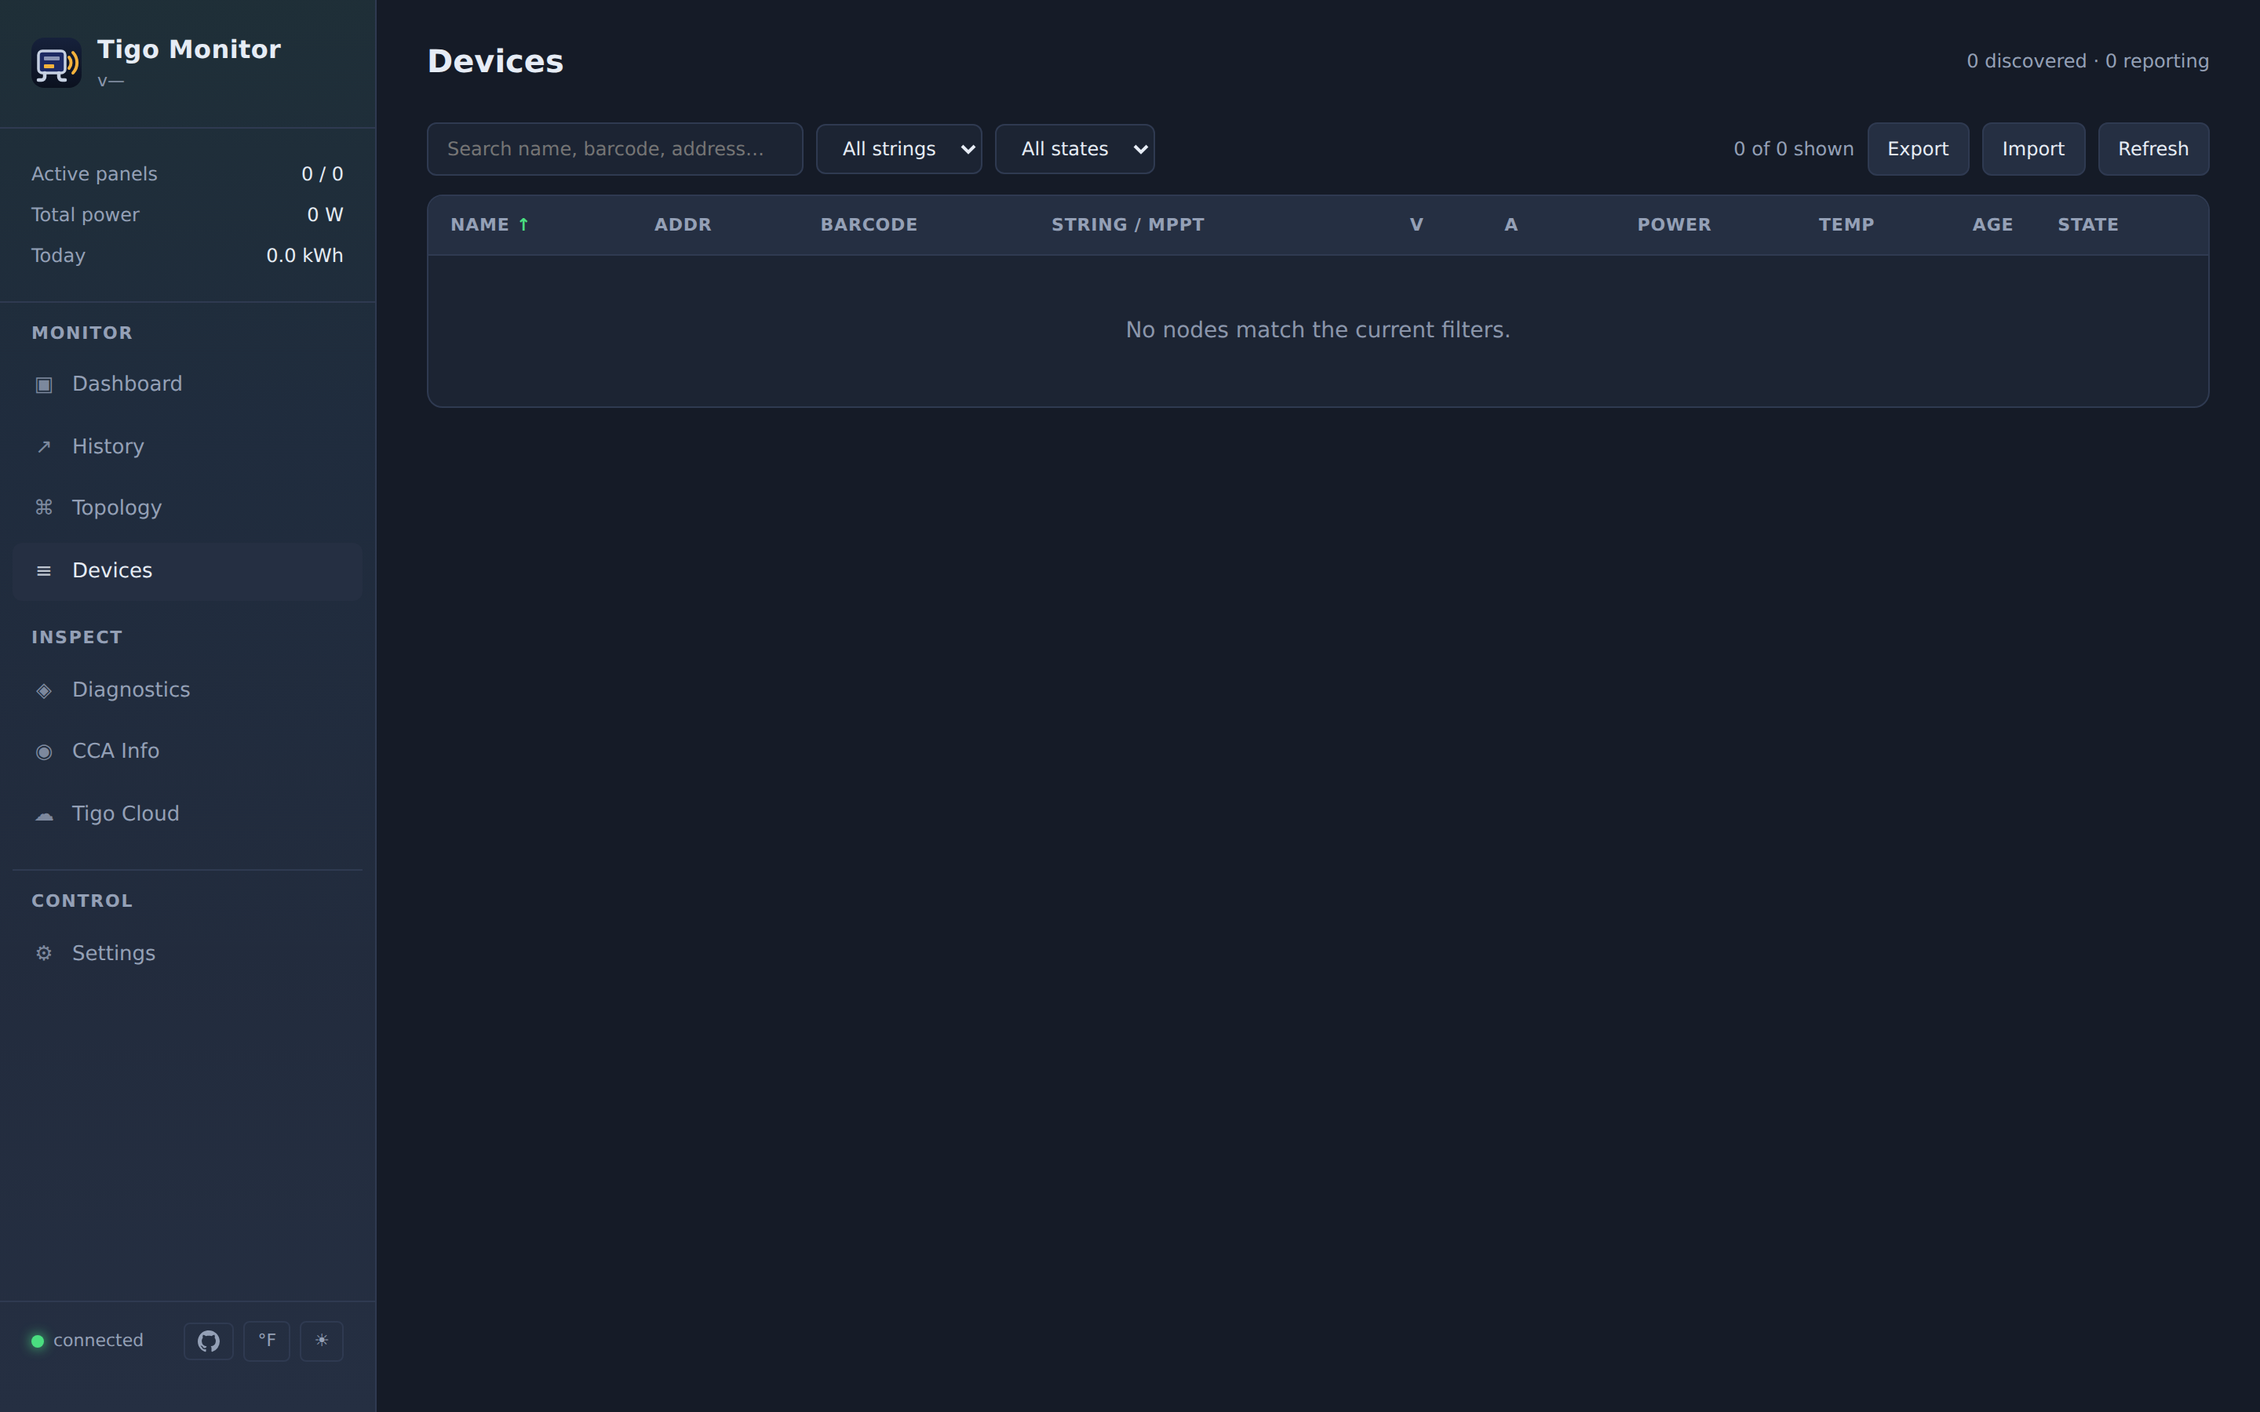
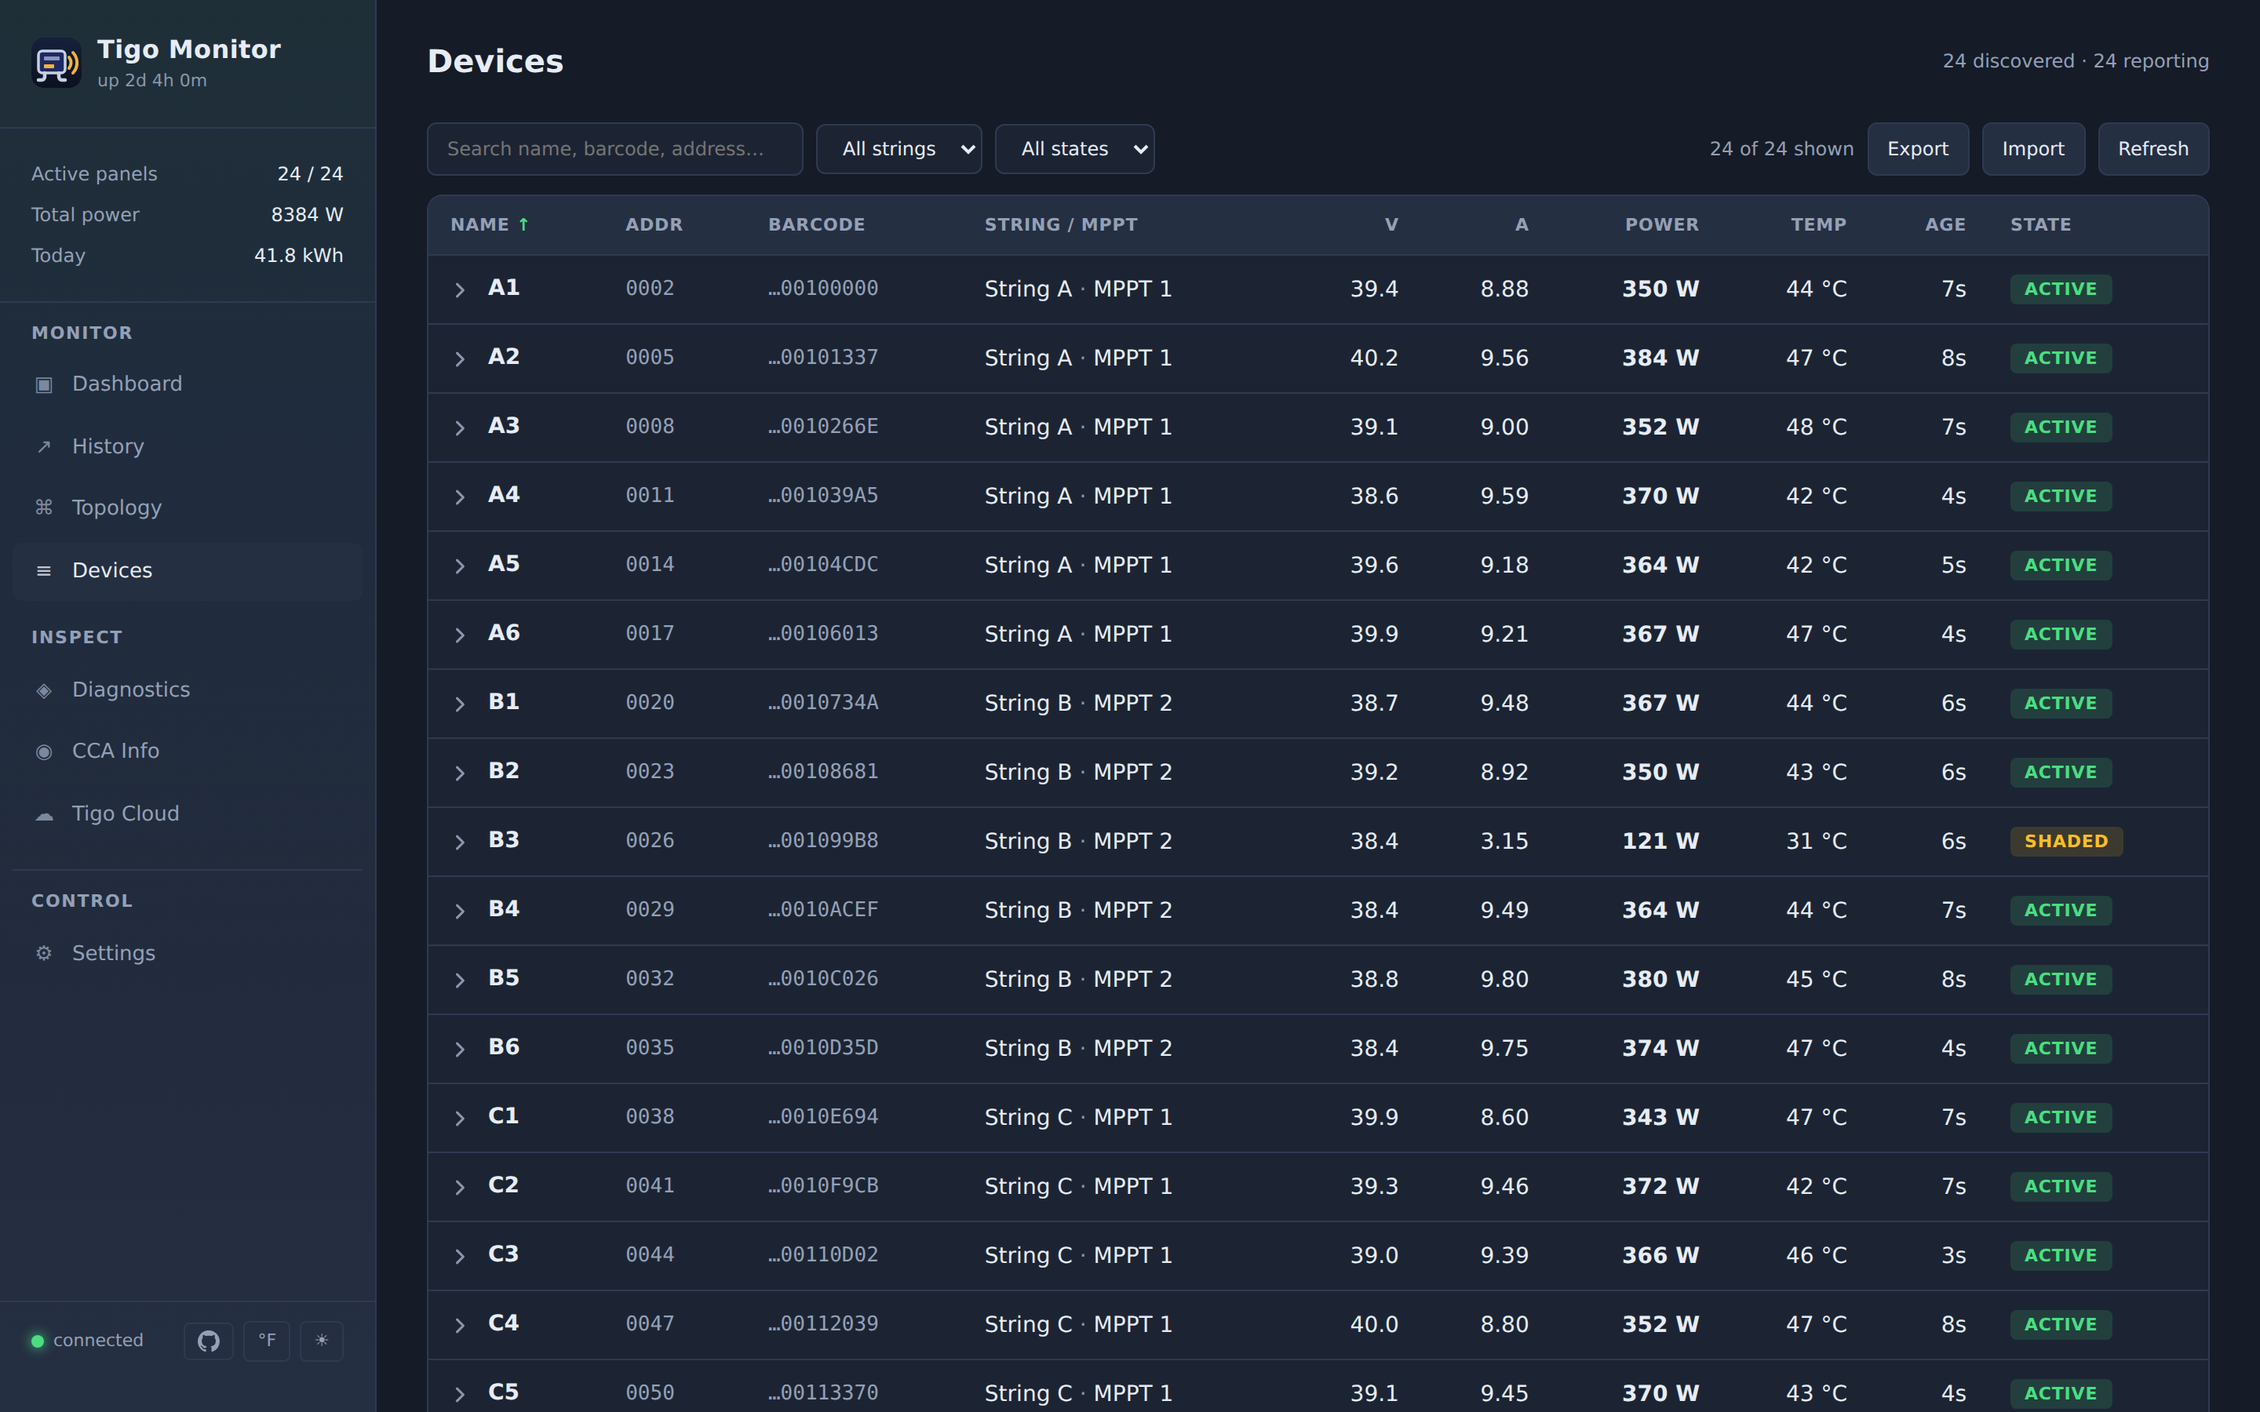
Web UI audit fixes: empty README screenshots, unlabelled controls, Devices on a phone, focus rings (#150)

diff --git a/components/tigo_server/web/app.html b/components/tigo_server/web/app.html
@@ -476,7 +476,9 @@
     background: var(--bg-2); border: 1px solid var(--border); color: var(--text);
     padding: 7px 12px; border-radius: 6px; font-size: 12px; min-width: 240px;
   }
-  .input:focus { outline: none; border-color: var(--accent); }
+  /* A 1 px border changing colour is too faint to find the caret by; the
+     sign-in page's soft ring is used for every field. */
+  .input:focus { border-color: var(--accent); outline: 2px solid color-mix(in srgb, var(--accent) 35%, transparent); outline-offset: 1px; }
   .table-toolbar .input.compact { min-width: auto; }
   .table-meta { font-size: 12px; color: var(--text-dim); }
 
@@ -558,6 +560,7 @@
 
   .table-wrap { background: var(--bg-2); border: 1px solid var(--border); border-radius: 10px; overflow: hidden; }
   table.nodes { width: 100%; border-collapse: collapse; font-size: 14px; }
+  .nodes-empty { text-align: center; color: var(--text-faint); padding: 40px 0; }
   table.nodes th[data-sort] { cursor: pointer; user-select: none; }
   table.nodes th[data-sort]:hover { color: var(--text); }
   table.nodes th.sort-asc::after { content: ' ↑'; color: var(--accent-text); }
@@ -615,7 +618,7 @@
   .topo-inv-name-edit-btn {
     background: none; border: 1px solid var(--border); color: var(--text-dim);
     border-radius: 4px; padding: 2px 6px; font-size: 11px; cursor: pointer;
-    margin-left: 4px;
+    margin-left: 4px; min-width: 24px; min-height: 24px;
   }
   .topo-inv-name-edit-btn:hover { color: var(--text); border-color: var(--accent-2); }
   .topo-inv-name-input {
@@ -798,6 +801,7 @@
   .setup-start { display: flex; flex-wrap: wrap; align-items: center; gap: 14px 22px; width: 100%; padding: 18px 22px; margin-bottom: 22px; text-align: left;
                  border-radius: 10px; border: 1px solid var(--border); border-top: 4px solid var(--task); background: var(--bg-2); color: var(--text); font: inherit; cursor: pointer; }
   .setup-start:hover, .setup-start:focus-visible { border-color: var(--task); outline: none; }
+  .setup-start:focus-visible { outline: 2px solid var(--task); outline-offset: 2px; }
   .setup-start .in { flex: 1 1 320px; display: flex; flex-direction: column; gap: 6px; }
   .setup-start strong { font-size: 17px; }
   .setup-start .in > span { font-size: 13px; color: var(--text-dim); }
@@ -808,6 +812,7 @@
   /* Every step done: rolled up to one line that says so. */
   .setup-start.done { flex-wrap: nowrap; gap: 14px; padding: 12px 16px; margin-bottom: 18px; border-top: 1px solid var(--border); }
   .setup-start.done:hover, .setup-start.done:focus-visible { border-color: var(--good); }
+  .setup-start.done:focus-visible { outline-color: var(--good); }
   .setup-start.done .ico { width: 32px; height: 32px; flex: none; border-radius: 50%; display: grid; place-items: center; background: color-mix(in srgb, var(--good) 15%, transparent); }
   .setup-start.done .in { flex: 1 1 auto; gap: 2px; min-width: 0; }
   .setup-start.done strong { font-size: 14px; }
@@ -861,6 +866,7 @@
                 background: var(--bg-2); border: 1px solid var(--border); color: var(--text); font: inherit; }
   .setup-task::before { content: ""; height: 4px; background: var(--task); }
   .setup-task:hover, .setup-task:focus-visible { border-color: var(--task); outline: none; }
+  .setup-task:focus-visible { outline: 2px solid var(--task); outline-offset: 2px; }
   .setup-task .art { height: 92px; margin: 14px 14px 0; border-radius: 10px; display: flex; align-items: center; justify-content: center;
                      background: color-mix(in srgb, var(--task) 10%, transparent); }
   .setup-task .in { flex: 1; display: flex; flex-direction: column; gap: 8px; padding: 14px 18px 18px; }
@@ -877,7 +883,7 @@
   .setup-taps strong { font-size: 13px; }
   .setup-taps span { color: var(--text-dim); }
   .setup-taps .lost { color: var(--warn-text); font-weight: 600; }
-  .setup-health .head a { margin-left: auto; font-size: 12px; color: var(--accent-2-text); }
+  .setup-health .head a { margin-left: auto; padding-block: 4px; font-size: 12px; color: var(--accent-2-text); }
   .setup-bar { display: flex; gap: 2px; height: 12px; border-radius: 6px; overflow: hidden; background: var(--bg-3); }
   .setup-bar span { min-width: 6px; }
   .setup-key { display: flex; flex-wrap: wrap; gap: 6px 22px; font-size: 12px; color: var(--text-dim); }
@@ -1010,6 +1016,7 @@
   .mesh-card { font: inherit; text-align: left; color: inherit; cursor: pointer; display: flex; flex-direction: column; gap: 5px;
                padding: 8px 9px; border-radius: 8px; background: var(--bg-3); border: 1px solid var(--border); min-height: 96px; }
   .mesh-card:hover, .mesh-card:focus-visible { border-color: var(--text-faint); outline: none; }
+  .mesh-card:focus-visible { outline: 2px solid var(--accent-2); outline-offset: 2px; }
   .mesh-card[aria-pressed="true"] { border-color: var(--text); box-shadow: 0 0 0 1px var(--text); }
   .mesh-card.tier-poor { border-color: color-mix(in srgb, var(--bad) 55%, transparent); }
   .mesh-card-top { display: flex; justify-content: space-between; align-items: center; font-size: 12px; font-weight: 600; }
@@ -1202,7 +1209,7 @@
     background: var(--bg); border: 1px solid var(--border); color: var(--text);
     border-radius: 4px; padding: 3px 8px; font-size: 13px; font-weight: 600; min-width: 120px; max-width: 220px;
   }
-  .topo-ed-name:focus { border-color: var(--accent-2); outline: none; }
+  .topo-ed-name:focus { border-color: var(--accent-2); outline: 2px solid color-mix(in srgb, var(--accent-2) 35%, transparent); outline-offset: 1px; }
   .topo-ed-canon { color: var(--text-faint); font-size: 11px; }
   .topo-add {
     background: none; border: 1px dashed var(--border); color: var(--text-dim);
@@ -1268,6 +1275,7 @@
   .cfg-row:has(> .cfg-text) .cfg-ctrl .cfg-input[type="number"] { max-width: 120px; }
   .cfg-row:has(> .cfg-text) .cfg-ctrl select.cfg-input { max-width: 480px; }
   .cfg-row:has(> .cfg-text) .cfg-switch { min-width: 120px; }  /* Save lines up with the number rows' */
+  .cfg-input:focus-visible { border-color: var(--accent); outline: 2px solid color-mix(in srgb, var(--accent) 35%, transparent); outline-offset: 1px; }
   .cfg-input { width: 110px; padding: 7px 9px; background: var(--bg-2); border: 1px solid var(--border); border-radius: 6px; color: var(--text); font-size: 13px; }
   .cfg-unit { color: var(--text-dim); font-size: 12px; margin-right: 2px; }
   .cfg-switch { display: inline-flex; align-items: center; gap: 6px; font-size: 13px; color: var(--text); cursor: pointer; min-width: 64px; min-height: 24px; }
@@ -1394,6 +1402,15 @@
        than reflowing into card-list form (which loses at-a-glance compare). */
     .table-wrap { overflow-x: auto; }
     table.nodes { min-width: 720px; }
+    /* Devices: at 720 px its cells wrapped into three-line rows with Power
+       and State off the right edge. Address, barcode and amps are in each
+       row's details, so drop them, keep each cell on one line, and let the
+       table take its own width. */
+    table.nodes.devices { min-width: 0; }
+    /* Centred across a table wider than the phone, it was cut off. */
+    .nodes-empty { text-align: left; padding: 32px 16px; }
+    table.nodes.devices tr:not(.node-detail) > :is(th, td):not([colspan]) { white-space: nowrap; }
+    table.nodes.devices tr:not(.node-detail) > :is(:nth-child(2), :nth-child(3), :nth-child(6)):not([colspan]) { display: none; }
 
     /* History segmented controls / chart cards */
     .controls { flex-wrap: wrap; }
@@ -1695,7 +1712,7 @@
       <div class="topo-toolbar">
         <button class="btn" id="topo-expand-btn">Expand all</button>
         <button class="btn" id="topo-collapse-btn">Collapse all</button>
-        <input class="input" id="topo-filter" placeholder="Filter by name, barcode, or string…">
+        <input class="input" id="topo-filter" aria-label="Filter the topology" placeholder="Filter by name, barcode, or string…">
         <span class="topo-summary" id="topo-summary">—</span>
         <button class="btn" id="topo-cloud-import-btn" style="display:none" title="Pull panel names + layout from Tigo's cloud">Import from Tigo cloud</button>
         <button class="btn" id="topo-edit-btn" title="Add inverters, MPPTs and strings, and drag panels into place">Edit layout</button>
@@ -1795,11 +1812,11 @@
       </div>
 
       <div class="table-toolbar">
-        <input class="input" id="nodes-search" placeholder="Search name, barcode, address…">
-        <select class="input compact" id="nodes-filter-string">
+        <input class="input" id="nodes-search" aria-label="Search devices" placeholder="Search name, barcode, address…">
+        <select class="input compact" id="nodes-filter-string" aria-label="Show string">
           <option value="">All strings</option>
         </select>
-        <select class="input compact" id="nodes-filter-state">
+        <select class="input compact" id="nodes-filter-state" aria-label="Show state">
           <option value="">All states</option>
           <option value="ok">Active</option>
           <option value="warn">Shaded</option>
@@ -1814,7 +1831,7 @@
       </div>
 
       <div class="table-wrap">
-        <table class="nodes">
+        <table class="nodes devices">
           <thead>
             <tr>
               <th data-sort="name">Name</th>
@@ -1832,7 +1849,7 @@
             </tr>
           </thead>
           <tbody id="nodes-tbody">
-            <tr><td colspan="11" style="text-align:center;color:var(--text-faint);padding:40px 0">Loading…</td></tr>
+            <tr><td colspan="12" class="nodes-empty">Loading…</td></tr>
           </tbody>
         </table>
       </div>
@@ -2380,7 +2397,7 @@
       <section class="bx-strip" id="bus-strip" aria-label="The last 5 minutes"></section>
       <div class="table-toolbar">
         <span id="bus-chips" role="group" aria-label="Show" style="display:flex;gap:6px;flex-wrap:wrap"></span>
-        <input class="input" id="buslog-search" placeholder="Filter, e.g. 0002 or GatewayCfg">
+        <input class="input" id="buslog-search" aria-label="Filter bus traffic" placeholder="Filter, e.g. 0002 or GatewayCfg">
         <button class="btn" id="buslog-pause">Pause</button>
       </div>
       <div class="bx-table" id="bus-box" role="table" aria-label="Exchanges">
@@ -2730,6 +2747,27 @@
     document.getElementById('theme-toggle').textContent = theme === 'light' ? '☾' : '☀';
   }
   // No choice saved yet: follow the device's own light or dark setting.
+  // A settings row names its control in a <strong> beside it, which is not
+  // a <label>: point each unlabelled control at that title, and at the line
+  // under it, so a screen reader says what the field is.
+  let cfgLabelSeq = 0;
+  function labelCfgRows(scope) {
+    scope.querySelectorAll('.cfg-row').forEach(row => {
+      const title = row.querySelector('.cfg-text > strong');
+      if (!title) return;
+      if (!title.id) title.id = `cfg-t-${++cfgLabelSeq}`;
+      const desc = row.querySelector('.cfg-text > span:not(.cfg-default)');
+      if (desc && !desc.id) desc.id = `${title.id}-d`;
+      row.querySelectorAll('.cfg-ctrl input, .cfg-ctrl select, .cfg-ctrl textarea').forEach(c => {
+        if (c.type === 'hidden' || c.hasAttribute('aria-label') || c.hasAttribute('aria-labelledby')) return;
+        if (c.type !== 'checkbox' && c.labels && c.labels.length) return;
+        c.setAttribute('aria-labelledby', title.id);
+        if (desc && !c.hasAttribute('aria-describedby')) c.setAttribute('aria-describedby', desc.id);
+      });
+    });
+  }
+  labelCfgRows(document);
+
   const initialTheme = localStorage.getItem('tigoTheme') || (matchMedia('(prefers-color-scheme: light)').matches ? 'light' : 'dark');
   applyTheme(initialTheme);
   document.getElementById('theme-toggle').addEventListener('click', () => {
@@ -4141,7 +4179,7 @@
     }
 
     if (rows.length === 0) {
-      html = '<tr><td colspan="11" style="text-align:center;color:var(--text-faint);padding:40px 0">No nodes match the current filters.</td></tr>';
+      html = '<tr><td colspan="12" class="nodes-empty">No nodes match the current filters.</td></tr>';
     }
     setHTML(tbody, html);
     nodesOpening = null;
@@ -6183,11 +6221,12 @@
           </div>
           <div class="cfg-ctrl">
             ${control}
-            <button class="btn" data-cfg-save="${f.key}">Save</button>
-            <button class="btn cfg-revert" data-cfg-reset="${f.key}"${ov ? '' : ' disabled'} title="Revert to ${PLATFORM === 'linux' ? '' : 'YAML '}default">Revert</button>
+            <button class="btn" data-cfg-save="${f.key}" aria-label="Save ${cloudEsc(f.label)}">Save</button>
+            <button class="btn cfg-revert" data-cfg-reset="${f.key}" aria-label="Revert ${cloudEsc(f.label)}"${ov ? '' : ' disabled'} title="Revert to ${PLATFORM === 'linux' ? '' : 'YAML '}default">Revert</button>
           </div>
         </div>`;
     }).join('');
+    labelCfgRows(rows);
     rows.querySelectorAll('[data-cfg-save]').forEach(b =>
       b.addEventListener('click', () => cfgSave(b.dataset.cfgSave)));
     rows.querySelectorAll('[data-cfg-reset]').forEach(b =>
@@ -6955,8 +6994,8 @@
     const row = document.createElement('div');
     row.className = 'cfg-row';
     row.innerHTML = `
-      <div class="cfg-ctrl"><input class="cfg-input pi-inv-name" style="width:160px" placeholder="Inverter name" autocomplete="off"></div>
-      <div class="cfg-ctrl" style="flex:1"><input class="cfg-input pi-inv-mppts" style="width:100%;min-width:180px" placeholder="MPPT 1, MPPT 2" autocomplete="off"></div>
+      <div class="cfg-ctrl"><input class="cfg-input pi-inv-name" style="width:160px" aria-label="Inverter name" placeholder="Inverter name" autocomplete="off"></div>
+      <div class="cfg-ctrl" style="flex:1"><input class="cfg-input pi-inv-mppts" style="width:100%;min-width:180px" aria-label="MPPTs on this inverter" placeholder="MPPT 1, MPPT 2" autocomplete="off"></div>
       <div class="cfg-ctrl"><button class="btn pi-inv-remove">Remove</button></div>`;
     row.querySelector('.pi-inv-name').value = inv.name || '';
     row.querySelector('.pi-inv-mppts').value = (inv.mppts || []).join(', ');

diff --git a/CHANGELOG.md b/CHANGELOG.md
@@ -259,6 +259,18 @@ and this project adheres to [Semantic Versioning](https://semver.org/spec/v2.0.0
 
 ### Fixed
 
+- **The README and docs screenshots showed an empty system.** Every
+  ESP32 view rendered "0 / 0" panels and "No nodes match" because the
+  screenshot script answered each request with `false`; regenerated with
+  the fixture array.
+
+- **The web UI works better with a keyboard, a screen reader and a
+  phone.** Every filter and settings field now has a name a screen reader
+  reads out, and focused fields and cards show a clear ring. On a phone,
+  Devices keeps each row on one line with name, string, volts and power in
+  view (address, barcode and amps are in the row's details), and the
+  "No nodes match" message is no longer cut off.
+
 - **An optimizer no TAP lists can be forgotten (Raspberry Pi and other
   Linux).** One a CCA listed and was later removed (in EI, say) stayed in
   Devices, and Retire said only "not in the table: nothing to remove".
